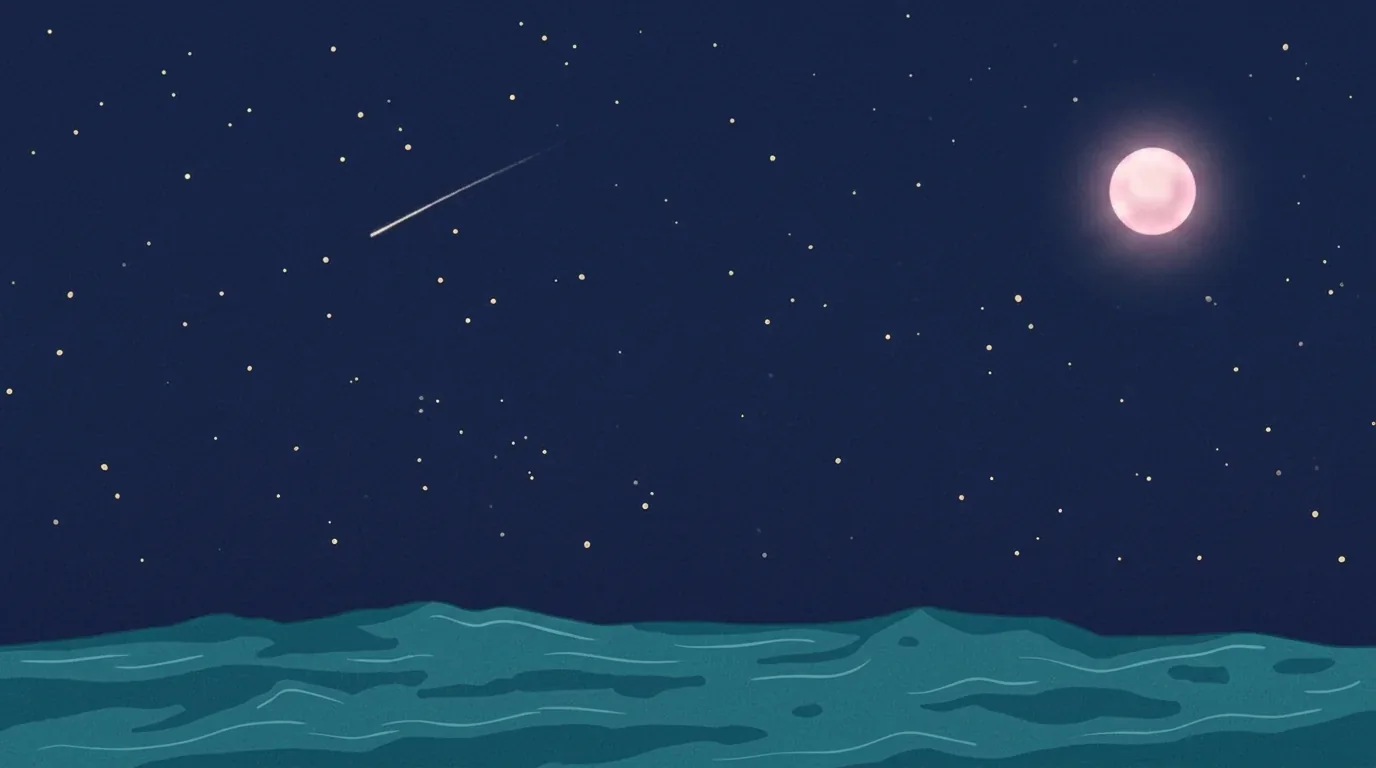
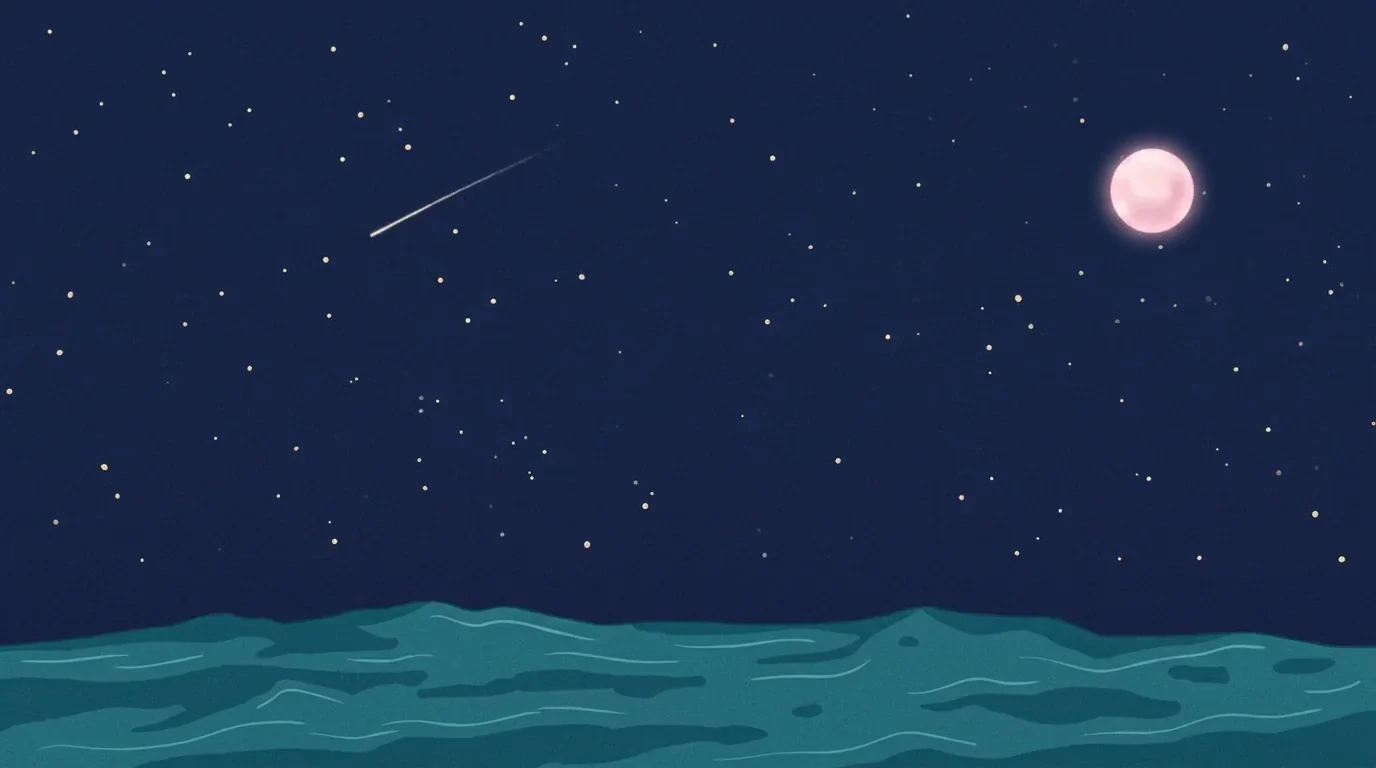
refactor: 전 페이지 행성 규격 통일 — 방사 기울기 스캔으로 6개 배경의 실제 원반 중심·반경을 측정(중심이 최대 4px, 반경이 37.5~43.5로 제각각이던 것을 확인)한 뒤, 행성을 자체 글로우와 함께 오려내 모두 중심 (1151,190)·원반 반경 42로 재합성. 코드의 SAT 상수도 전 페이지 동일 값(x 1151, y 190, rx/ry 42)으로 맞춰 발광 링과 클릭 영역까지 완전 통일

Changed region(s): [[0.7812, 0.125, 0.9062, 0.375]]

diff --git a/index.html b/index.html
@@ -392,7 +392,7 @@
     function isMobile() { return window.innerWidth < 700; } // 모바일: 중앙 고정, 걷기 없음
 
     // moon-5.webp(1376×768) 속 토성 중심(1151,150) — cover 배치를 화면 좌표로 환산
-    var SAT = { w: 1376, h: 768, x: 1151, y: 189, r: 78 }; // 복숭아빛 가스행성(다른 페이지와 동일 크기·위치)
+    var SAT = { w: 1376, h: 768, x: 1151, y: 190, r: 78 }; // 전 페이지 공통 규격(원반 반경 42)
     var vpBox = document.createElement("div");   // 배경(fixed inset:0)과 같은 박스 — 스크롤바 편차 제거
     vpBox.style.cssText = "position:fixed;inset:0;pointer-events:none;visibility:hidden";
     document.body.appendChild(vpBox);

diff --git a/play/js/hub-fan.js b/play/js/hub-fan.js
@@ -66,7 +66,7 @@ background:radial-gradient(ellipse at center,rgba(4,10,20,.68) 0%,rgba(4,10,20,.
   var WALK_SPEED = 200, RUN_SPEED = 1250;
   var WALK_W = 170, FRONT_W = 186;
   var MOUTH_FX = 0.593, MOUTH_FY = 0.539;
-  var SAT = { w: 1376, h: 768, x: 1151, y: 150, r: 78 };
+  var SAT = { w: 1376, h: 768, x: 1151, y: 190, r: 78 }; // 전 페이지 공통 규격
   function groundY() { return window.innerHeight * 0.94 - 75; }
   function centerX() { return (window.innerWidth - el.offsetWidth) / 2; }
   function saturnPos() {

diff --git a/apps.html b/apps.html
@@ -183,7 +183,7 @@
       var vp = document.createElement("div");
       vp.style.cssText = "position:fixed;inset:0;pointer-events:none;visibility:hidden";
       document.body.appendChild(vp);
-      var SAT = { w: 1376, h: 768, x: 1152, y: 190, r: 45, rx: 39, ry: 39 }; // 실측 행성 중심·반경
+      var SAT = { w: 1376, h: 768, x: 1151, y: 190, r: 45, rx: 42, ry: 42 }; // 전 페이지 공통 규격
       function place() {
         var vb = vp.getBoundingClientRect();
         var W = vb.width, H = vb.height;

diff --git a/play/fortune-hub.html b/play/fortune-hub.html
@@ -187,7 +187,7 @@
       var vp = document.createElement("div");
       vp.style.cssText = "position:fixed;inset:0;pointer-events:none;visibility:hidden";
       document.body.appendChild(vp);
-      var SAT = { w: 1376, h: 768, x: 1151, y: 190, r: 50, rx: 43, ry: 43 }; // 실측 행성 중심·반경
+      var SAT = { w: 1376, h: 768, x: 1151, y: 190, r: 45, rx: 42, ry: 42 }; // 전 페이지 공통 규격
       function place() {
         var vb = vp.getBoundingClientRect();
         var W = vb.width, H = vb.height;

diff --git a/play/mini.html b/play/mini.html
@@ -161,7 +161,7 @@
       var vp = document.createElement("div");
       vp.style.cssText = "position:fixed;inset:0;pointer-events:none;visibility:hidden";
       document.body.appendChild(vp);
-      var SAT = { w: 1376, h: 768, x: 1160, y: 190, r: 43, rx: 34, ry: 38 }; // 실측 행성 중심·반경
+      var SAT = { w: 1376, h: 768, x: 1151, y: 190, r: 45, rx: 42, ry: 42 }; // 전 페이지 공통 규격
       function place() {
         var vb = vp.getBoundingClientRect();
         var W = vb.width, H = vb.height;

diff --git a/play/mini2.html b/play/mini2.html
@@ -156,7 +156,7 @@
       var vp = document.createElement("div");
       vp.style.cssText = "position:fixed;inset:0;pointer-events:none;visibility:hidden";
       document.body.appendChild(vp);
-      var SAT = { w: 1376, h: 768, x: 1152, y: 190, r: 58, rx: 43, ry: 44 }; // 실측 행성 중심·반경
+      var SAT = { w: 1376, h: 768, x: 1151, y: 190, r: 45, rx: 42, ry: 42 }; // 전 페이지 공통 규격
       function place() {
         var vb = vp.getBoundingClientRect();
         var W = vb.width, H = vb.height;

diff --git a/play/tests.html b/play/tests.html
@@ -163,7 +163,7 @@
       var vp = document.createElement("div");
       vp.style.cssText = "position:fixed;inset:0;pointer-events:none;visibility:hidden";
       document.body.appendChild(vp);
-      var SAT = { w: 1376, h: 768, x: 1151, y: 190, r: 45, rx: 42, ry: 42 }; // 실측 행성 중심·반경
+      var SAT = { w: 1376, h: 768, x: 1151, y: 190, r: 45, rx: 42, ry: 42 }; // 전 페이지 공통 규격
       function place() {
         var vb = vp.getBoundingClientRect();
         var W = vb.width, H = vb.height;
